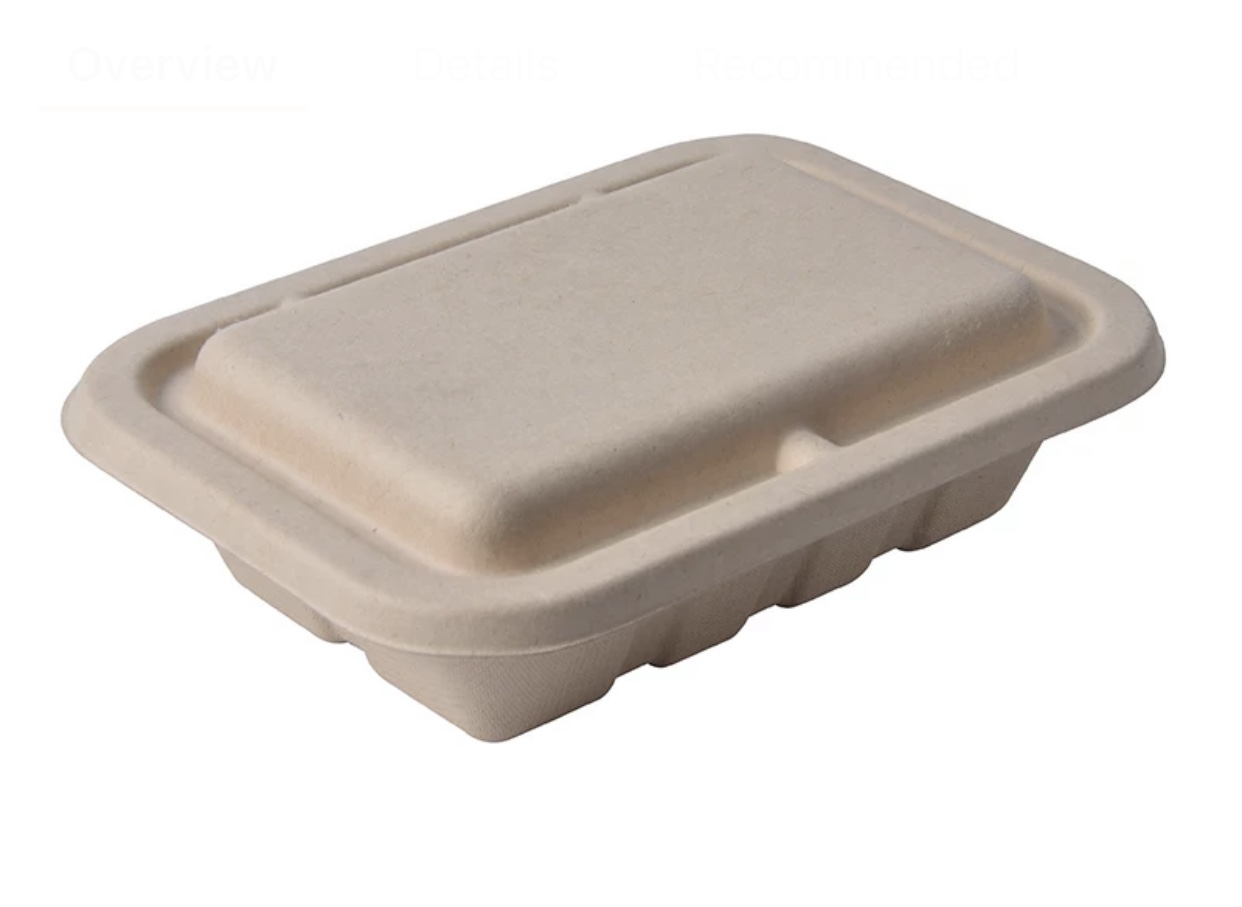
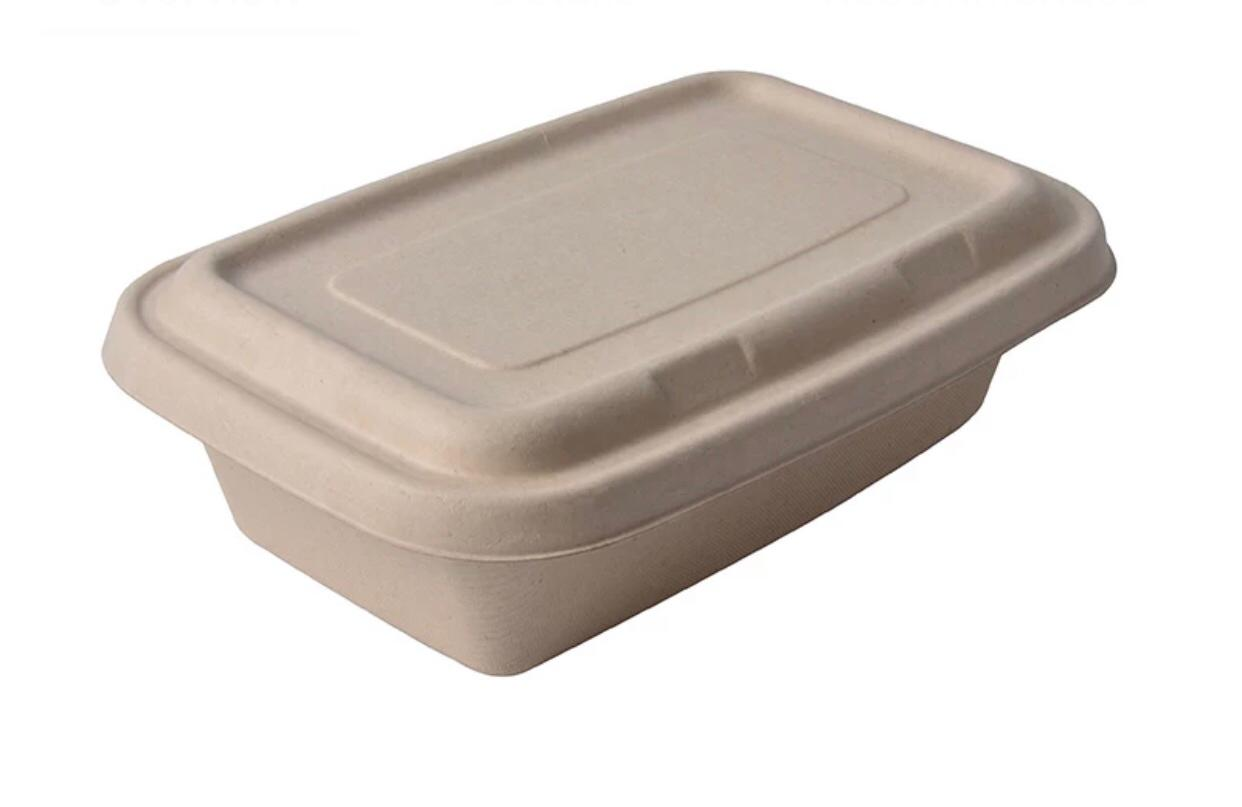
change photo2

diff --git a/helper/products.js b/helper/products.js
@@ -655,7 +655,7 @@ export const wide = [
   {
     id: 1,
     title: "Wide Container 400 ml",
-    imagePath: "/images/wide/wide-500ml.JPG",
+    imagePath: "/images/wide/wide-400ml.jpeg",
     desc: [
       {
         id: 1,
@@ -839,8 +839,8 @@ export const wide = [
   },
   {
     id: 6,
-    title: "wide Container 1300 ml",
-    imagePath: "/images/placeholder.png",
+    title: "Wide Container 1300 ml",
+    imagePath: "/images/wide/wide-1300ml.jpeg",
     desc: [
       {
         id: 1,
